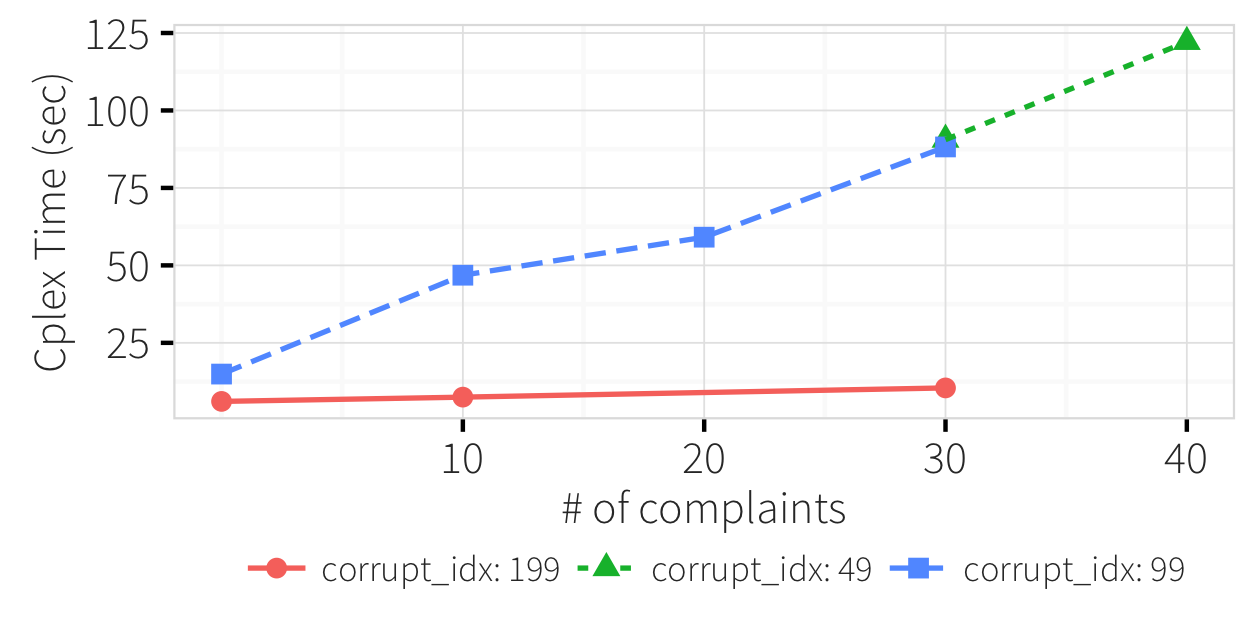
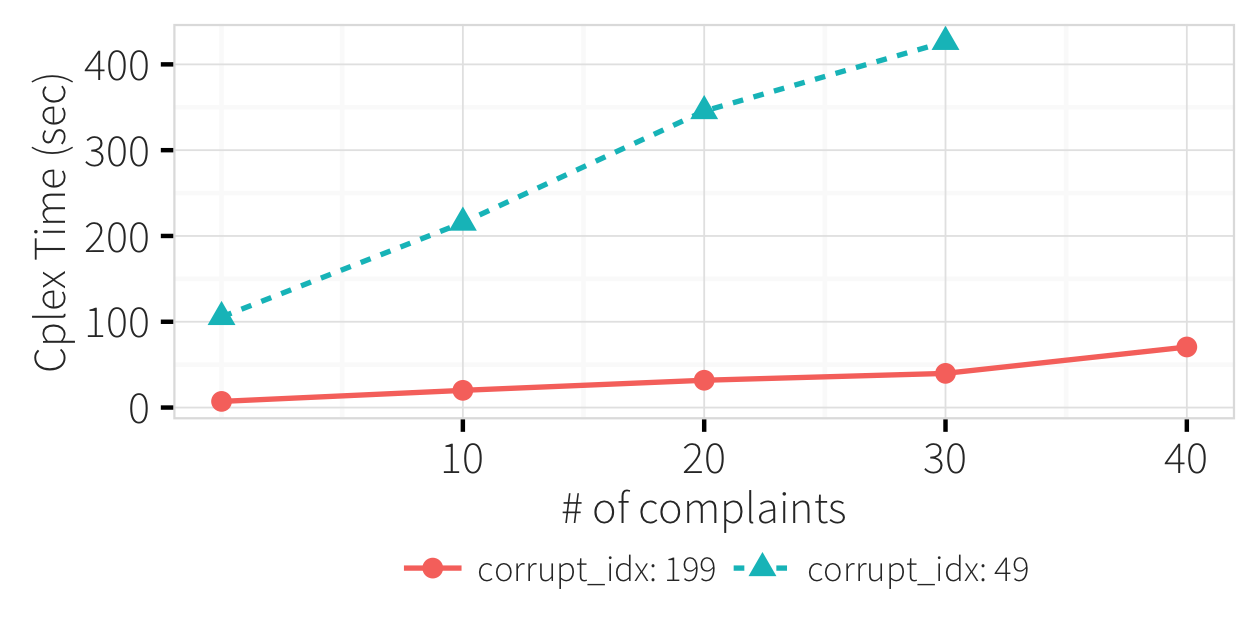
appendix update

diff --git a/docs/vldb16/content/appendix.tex b/docs/vldb16/content/appendix.tex
@@ -11,16 +11,17 @@ from the beginning to the end of the log is necessary; in this
 section, we examine alternative, simpler models that process a single
 query at a time, and demonstrate why they are insufficient 
 theoretically and experimentally.
+  
   \begin{figure*}[t]
   \centering
-  \begin{subfigure} [t]{.3\textwidth}
+    \begin{subfigure} [t]{.3\textwidth}
     \includegraphics[width = .99\columnwidth]{figures/heuristicacc}
     \vspace*{-.25in}
     \caption{Comparison on Accuracy. }
     \vspace*{-.1in}
     \label{f:heuristic_acc} 
     \end{subfigure}
-      \begin{subfigure} [t]{.3\textwidth}
+    \begin{subfigure} [t]{.3\textwidth}
     \includegraphics[width = .99\columnwidth]{figures/heuristictime}
     \vspace*{-.25in}
     \caption{Comparison on Performance. }
@@ -115,53 +116,49 @@ the reality is that one
 has to model all constraints and transformations through the entire
 log history. In addition, even with single query, though more efficient than \sys, 
 the heuristic alternative can hardly achieve near satisfiable accuracy. 
+  
 
-\iffalse
-In this
-section, we examine alternative, simpler models that process a single
-query at a time, and demonstrate why they are insufficient.
+\section{Solving Time for the Solver}
+\label{app:solvtime}
+In this section, we study factors that influence the MILP solver solving time. In this paper, we
+use CPLEX ~\cite{cplex2014v12} as a black box to solve the problems. We carefully studied
+the behavior of the solver found that the following factors may contribute to the solver 
+solving time: number of complaints, number of queries, and number of constraints. \\
 
-\noindent
-\textbf{WHERE repairs through classification:}
-The \texttt{WHERE} clause of an update query is equivalent to a
-rule-based binary classifier that splits tuples into two groups:
-(1)~tuples that satisfy the conditions in the \texttt{WHERE} clause
-and (2)~tuples that do not. Thus, by training a classifier,
-such as decision trees \cite{quinlan1987} to learn
-the correct classification rules rules for the \texttt{WHERE} clause.
-
-\noindent
-\textbf{SET repairs:}
-This alternative approach constructs 
-a simple linear system of equations to solve the parameters in the \texttt{SET}
-when errors persist after fixing the \texttt{WHERE} clause:
-For each expression in the \texttt{SET} clause we create a
-linear equation, using unknown variables to represent any parameters
-in the \texttt{SET} expression. 
-  \begin{figure}[h]
+  
+  \begin{figure*}[t]
   \centering
-    \includegraphics[width = .6\columnwidth]{figures/heuristicacc}
+    \begin{subfigure} [t]{.3\textwidth}
+    \includegraphics[width = .99\columnwidth]{figures/num_compl_time}
+    \vspace*{-.25in}
+    \caption{Cplex time vs. \# of compl. }
     \vspace*{-.1in}
-    \caption{Heuristic Approach vs. \sys on Single-Query. }
     \label{f:heuristic_acc} 
-  \end{figure}
-  \vspace*{-0.1in}
-  
-The na\"ive approach that we just described is heuristic in nature. It
-is simple and fast, but it can only process a single incorrect query. As shown in
-Figure~\ref{f:heuristic_acc}, the F-1 score of na\"ive heuristic approach is less 
-than 0.6 while \sys maintain high accuracy in solving single query problem with
-above 0.9 F-1 score across all database sizes. 
-\fi
-  
+    \end{subfigure}
+    \begin{subfigure} [t]{.3\textwidth}
+    \includegraphics[width = .99\columnwidth]{figures/num_queries_time}
+    \vspace*{-.25in}
+    \caption{Cplex time vs. \# of queries.}
+    \vspace*{-.1in}
+    \label{f:heuristic_time} 
+    \end{subfigure}
+    \begin{subfigure} [t]{.3\textwidth}
+    \includegraphics[width = .99\columnwidth]{figures/num_cons_time}
+    \vspace*{-.25in}
+    \caption{Cplex time vs. \# of constraints. }
+    \vspace*{-.1in}
+    \label{f:heuristic_time} 
+    \end{subfigure}
+   \caption{Solving Time for Cplex. }
+   \vspace*{-.1in}
+  \end{figure*}
+
 \section{Effect of Index of Corrupted Query}
 \label{app:qidx}
 
 A key parameter for our experiments is the location of the corrupted query ($idx$).  
-\alex{Have we discussed anywhere yet that we focus on single errors?}
 This parameter determines the number of queries \sys must consider when searching for a fix,
 and affects the size of the complaint set.  
-\alex{It won't be clear to the reader how this relates to the size of the complaint set.}
 Both of these characteristics directly impact \sys's 
 runtime performance. For this reason, it is undesirable to randomly pick and corrupt queries
 throughout the query log, as the performance and accuracy results may not be comparable. 
@@ -237,5 +234,3 @@ time cost compare to \milptuple. \\
 Based on these observations, we only include the performance of \milpadvtuple and \milpadvall
 in the rest of the experiments. 
 
-\section{Solving time for the solver}
-\label{app:solvtime}

diff --git a/docs/vldb16/content/xx-decisiontree.tex b/docs/vldb16/content/xx-decisiontree.tex
@@ -90,3 +90,41 @@ optimizations to our initial approach that make scaling to large data
 and log sizes feasible. 
 % \red{Add graph comparing naive and d-trees here.}
 
+
+\iffalse
+In this
+section, we examine alternative, simpler models that process a single
+query at a time, and demonstrate why they are insufficient.
+
+\noindent
+\textbf{WHERE repairs through classification:}
+The \texttt{WHERE} clause of an update query is equivalent to a
+rule-based binary classifier that splits tuples into two groups:
+(1)~tuples that satisfy the conditions in the \texttt{WHERE} clause
+and (2)~tuples that do not. Thus, by training a classifier,
+such as decision trees \cite{quinlan1987} to learn
+the correct classification rules rules for the \texttt{WHERE} clause.
+
+\noindent
+\textbf{SET repairs:}
+This alternative approach constructs 
+a simple linear system of equations to solve the parameters in the \texttt{SET}
+when errors persist after fixing the \texttt{WHERE} clause:
+For each expression in the \texttt{SET} clause we create a
+linear equation, using unknown variables to represent any parameters
+in the \texttt{SET} expression. 
+  \begin{figure}[h]
+  \centering
+    \includegraphics[width = .6\columnwidth]{figures/heuristicacc}
+    \vspace*{-.1in}
+    \caption{Heuristic Approach vs. \sys on Single-Query. }
+    \label{f:heuristic_acc} 
+  \end{figure}
+  \vspace*{-0.1in}
+  
+The na\"ive approach that we just described is heuristic in nature. It
+is simple and fast, but it can only process a single incorrect query. As shown in
+Figure~\ref{f:heuristic_acc}, the F-1 score of na\"ive heuristic approach is less 
+than 0.6 while \sys maintain high accuracy in solving single query problem with
+above 0.9 F-1 score across all database sizes. 
+\fi
